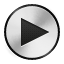
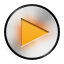
orange player button

Changed region(s): [[0.2188, 0.2188, 0.8125, 0.7812]]

diff --git a/public/css/awpy.css b/public/css/awpy.css
@@ -46,7 +46,7 @@ ul {
 
 .container {
   background: url(../images/roughcloth.png) #CCC;
-  max-width: 900px;
+  max-width: 1000px;
   margin-right: auto;
   margin-left: auto;
   -moz-box-shadow: 0 3px 5px black;
@@ -216,7 +216,7 @@ table tbody td.genre {
   top: 0;
   width: 100%;
   z-index: 1000;
-  max-width: 900px;
+  max-width: 1000px;
 }
 header {
   display: block;
@@ -383,6 +383,7 @@ header {
   background: no-repeat center 10px transparent;
   text-align: center;
   padding-top: 30px;
+  opacity: 0.75;
 }
 
 .col h4 {
